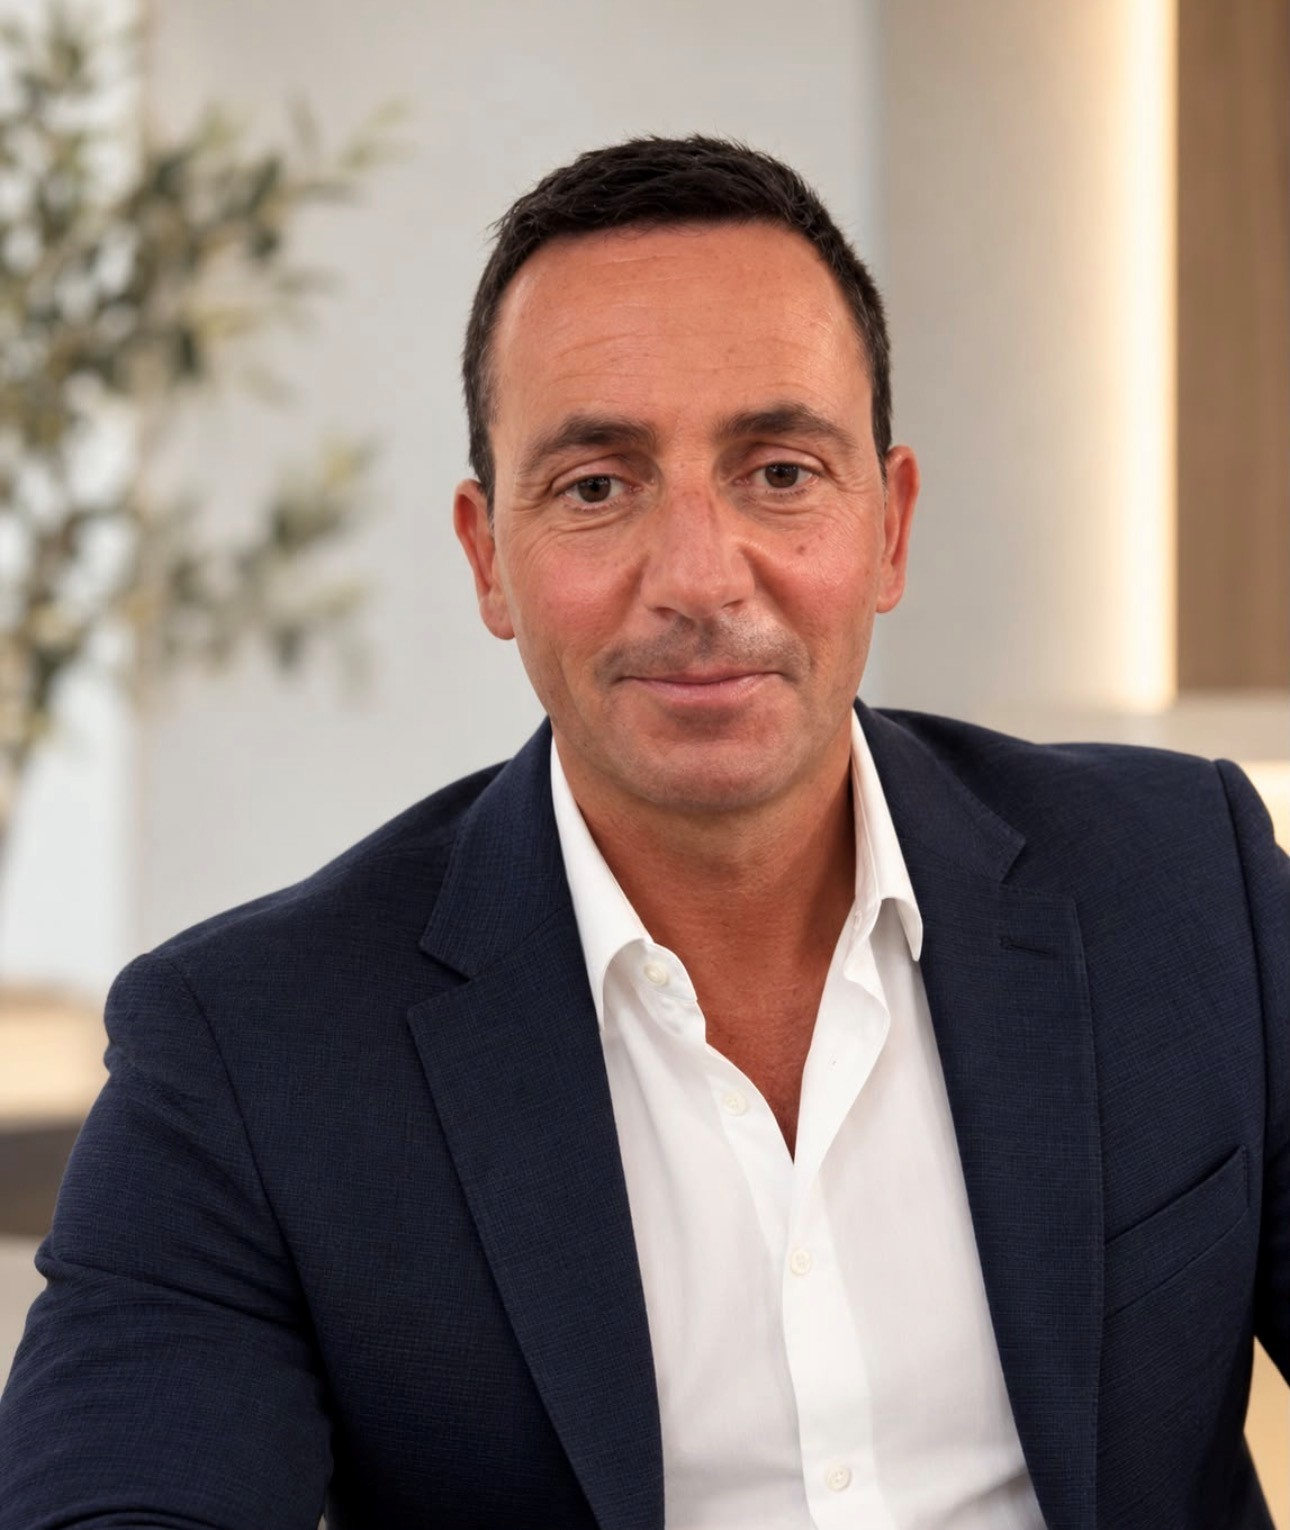
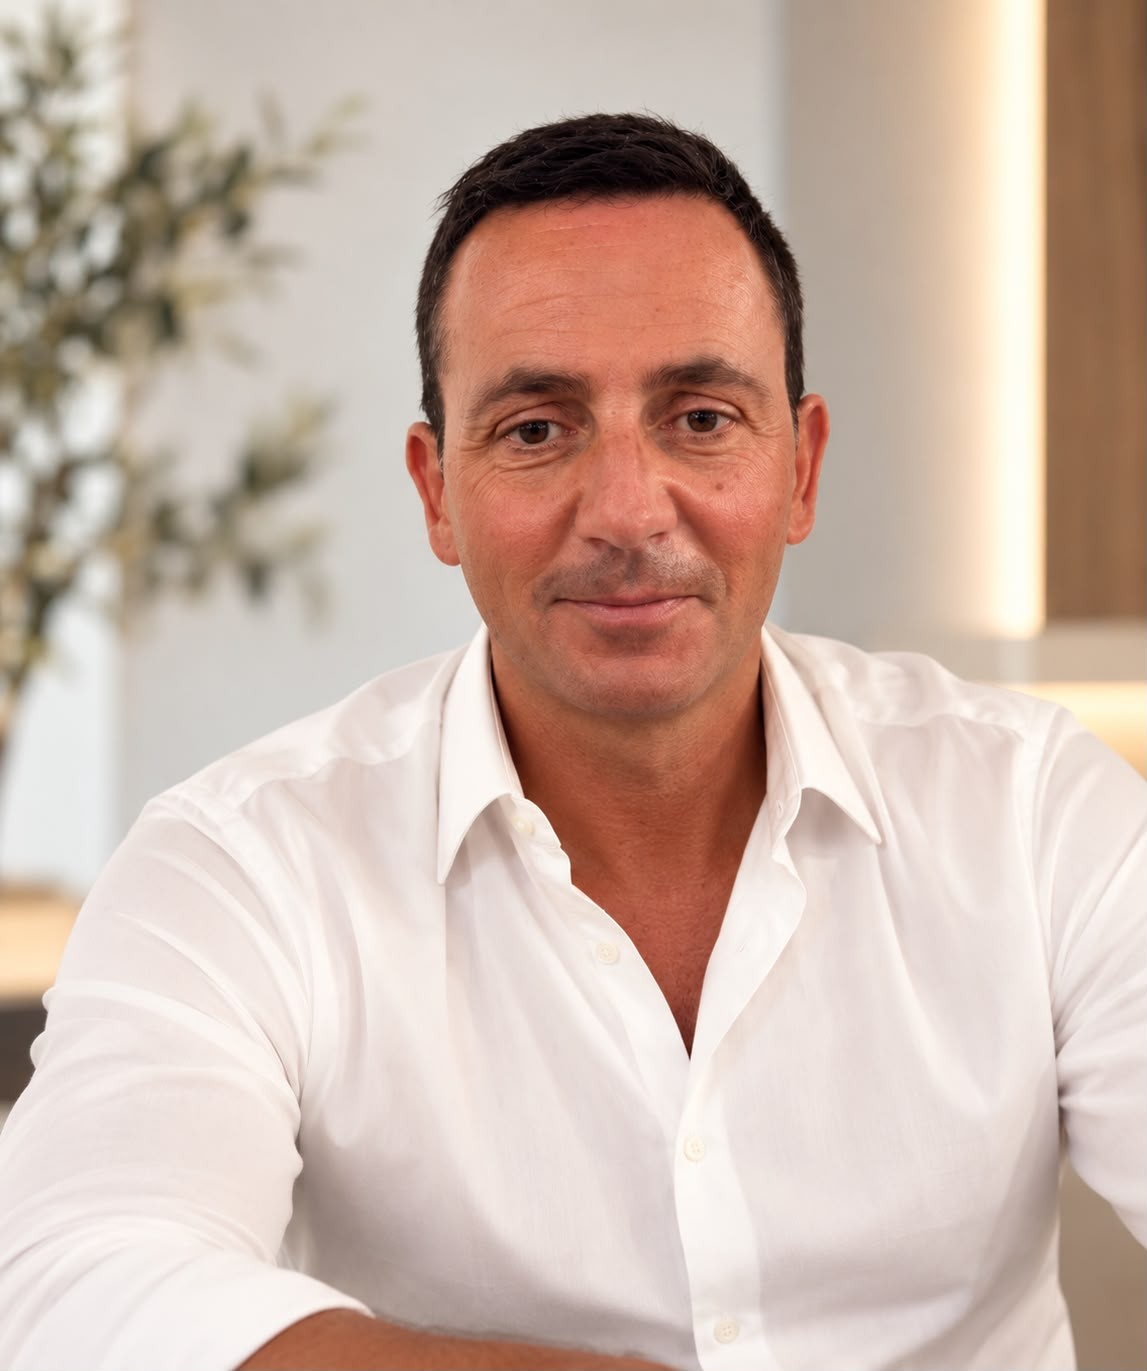
Add files via upload

diff --git a/brands.html b/brands.html
@@ -29,20 +29,32 @@
         <p>Selected international brands we collaborate with for sanitaryware, furniture, outdoor living, surfaces and textiles.</p>
       </div>
       <div class="brand-logo-grid">
+        <div class="brand-logo-item"><img src="1.alice.jpg" alt="Alice Ceramica logo" loading="lazy"></div>
+        <div class="brand-logo-item"><img src="2.Arpa.jpg" alt="Arpa Ceramiche logo" loading="lazy"></div>
+        <div class="brand-logo-item"><img src="3.artemide.jpg" alt="Artemide logo" loading="lazy"></div>
         <div class="brand-logo-item"><img src="atmosphera_italy.jpg" alt="Atmosphera Italy logo" loading="lazy"></div>
         <div class="brand-logo-item"><img src="black_tie.jpg" alt="Black Tie Furniture logo" loading="lazy"></div>
+        <div class="brand-logo-item"><img src="4.bot.jpg" alt="Bot Lighting logo" loading="lazy"></div>
         <div class="brand-logo-item"><img src="capdell.jpg" alt="CAPDELL Furniture logo" loading="lazy"></div>
         <div class="brand-logo-item"><img src="capital_collection.jpg" alt="Capital Furniture logo" loading="lazy"></div>
+        <div class="brand-logo-item"><img src="5.ceramica_dolomite.jpg" alt="Ceramica Dolomite logo" loading="lazy"></div>
         <div class="brand-logo-item"><img src="DILE.jpg" alt="DILE Furniture logo" loading="lazy"></div>
         <div class="brand-logo-item"><img src="exportjunk.jpg" alt="Exportjunk Furniture logo" loading="lazy"></div>
+        <div class="brand-logo-item"><img src="6.goccia.jpg" alt="Goccia logo" loading="lazy"></div>
+        <div class="brand-logo-item"><img src="7.HINT.jpg" alt="Hind Rabii logo" loading="lazy"></div>
         <div class="brand-logo-item"><img src="nature_desing_new.png" alt="Nature Design logo" loading="lazy"></div>
         <div class="brand-logo-item"><img src="nicoletti.jpg" alt="Nicoletti Home Furniture logo" loading="lazy"></div>
         <div class="brand-logo-item"><img src="offifran.jpg" alt="Ofifran Office Furniture logo" loading="lazy"></div>
+        <div class="brand-logo-item"><img src="8.promoluce.jpg" alt="Promoluce logo" loading="lazy"></div>
         <div class="brand-logo-item"><img src="roberti.jpg" alt="Roberti Outdoor Pleasure logo" loading="lazy"></div>
         <div class="brand-logo-item"><img src="scolaro.jpg" alt="Scolaro Parasols logo" loading="lazy"></div>
         <div class="brand-logo-item"><img src="skld.jpg" alt="SKLD Studio logo" loading="lazy"></div>
         <div class="brand-logo-item"><img src="Skyline_Design_new.png" alt="Skyline Design logo" loading="lazy"></div>
+        <div class="brand-logo-item"><img src="9.TKlighting.jpg" alt="T.K. Lighting logo" loading="lazy"></div>
         <div class="brand-logo-item"><img src="target_point.jpg" alt="Target Point Furniture logo" loading="lazy"></div>
+        <div class="brand-logo-item"><img src="10.Unicomstarker.jpg" alt="Unicomstarker logo" loading="lazy"></div>
+        <div class="brand-logo-item"><img src="11.zaferano.jpg" alt="Zafferano logo" loading="lazy"></div>
+        <div class="brand-logo-item"><img src="12.weareib.jpg" alt="We Are IB logo" loading="lazy"></div>
       </div>
     </div>
 

diff --git a/index.html b/index.html
@@ -302,7 +302,7 @@
       <p>After all, a satisfied client is the master key to new eras, and as Elias often says: ‘The <strong style="font-weight: 800;">price</strong> of any product will eventually <strong style="font-weight: 800;">BE FORGOTTEN</strong>, the <strong style="font-weight: 800;">QUALITY</strong> never.’</p>
     </div>
     <div class="owner-media">
-      <img src="owner.jpg?v=20260929b" alt="Pomolo Mykonos founder outside the showroom" class="owner-photo" loading="lazy" decoding="async">
+      <img src="owner.jpg?v=20260929c" alt="Pomolo Mykonos founder outside the showroom" class="owner-photo" loading="lazy" decoding="async">
     </div>
   </div>
 </div>

diff --git a/styles.css b/styles.css
@@ -581,6 +581,9 @@ header.scrolled {
   transition: border-color var(--transition), background var(--transition);
 }
 .brand-logo-item img { max-width: 100%; max-height: 70px; width: auto; height: auto; object-fit: contain; }
+.brand-logo-item--text { flex-direction: column; gap: 8px; }
+.brand-logo-item--text span { font-weight: 600; }
+.brand-logo-item--text small { color: var(--c-grey); font-size: 0.65rem; letter-spacing: 1.2px; }
 .brand-logo-item:hover { border-color: #547668; background: var(--c-white); }
 
 .architect-partner-block { margin-bottom: 70px; }
